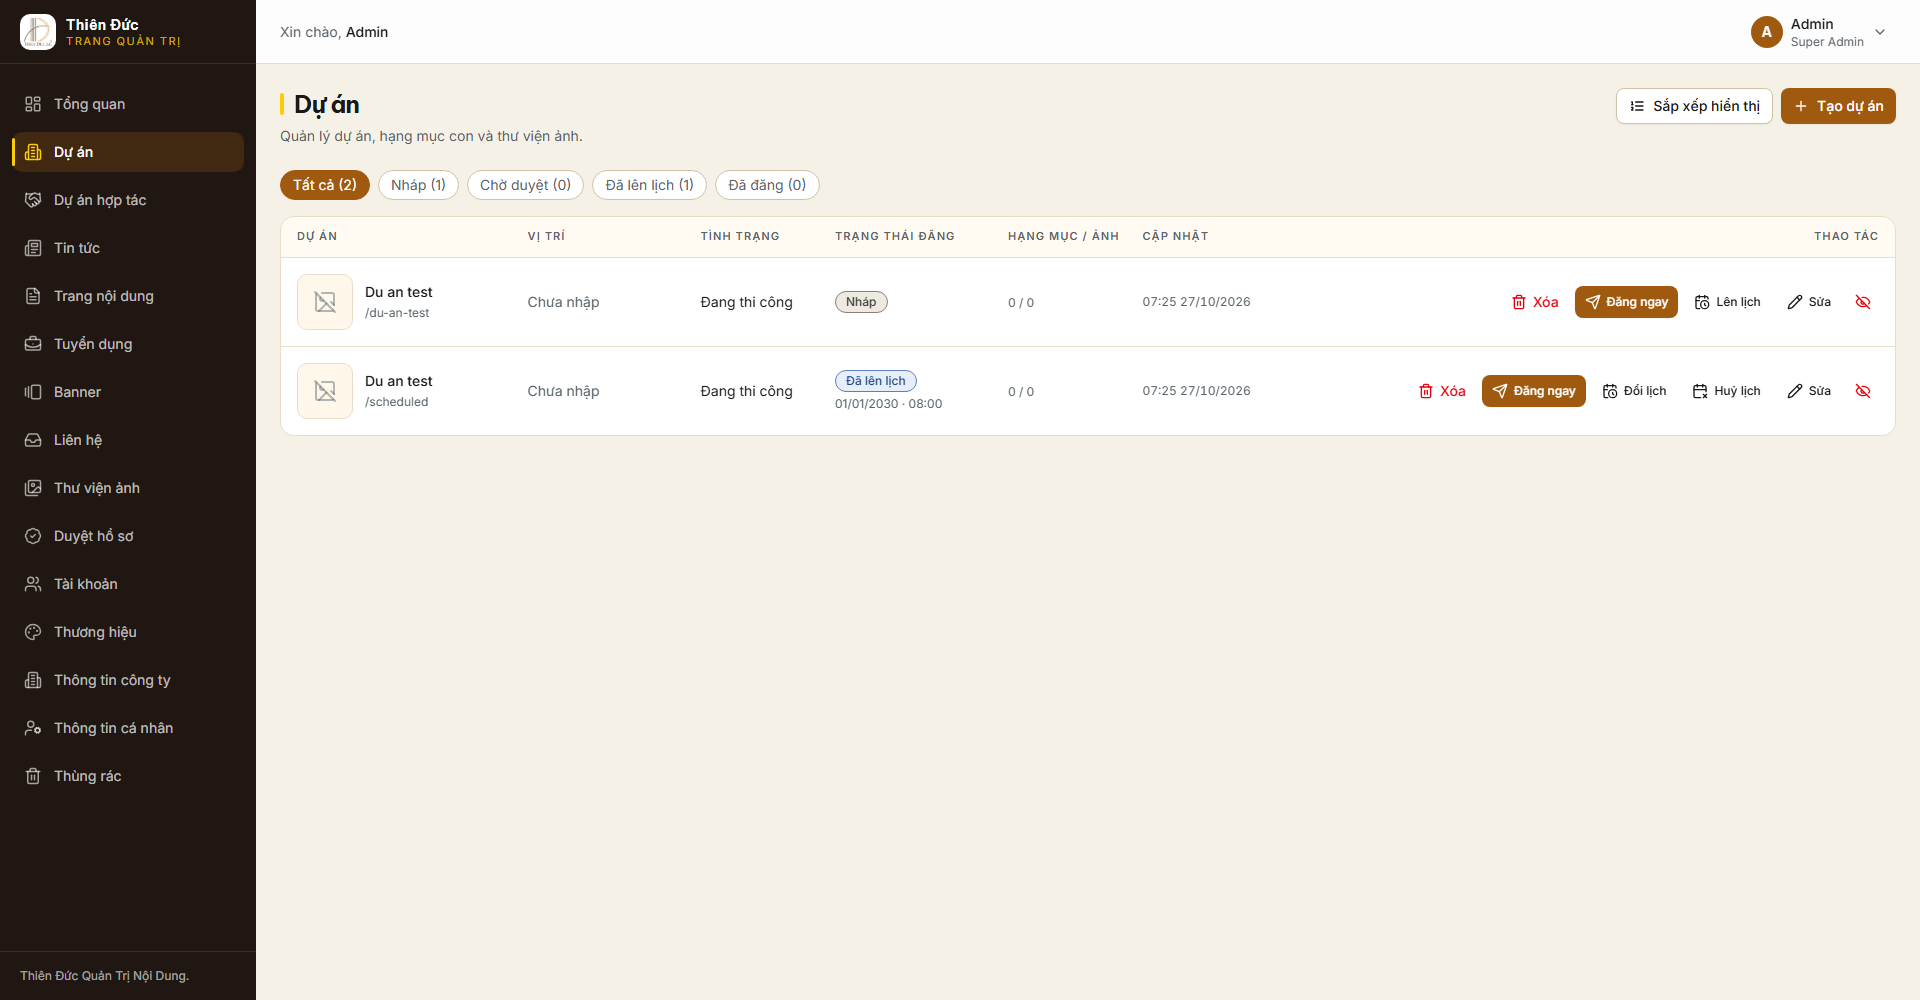
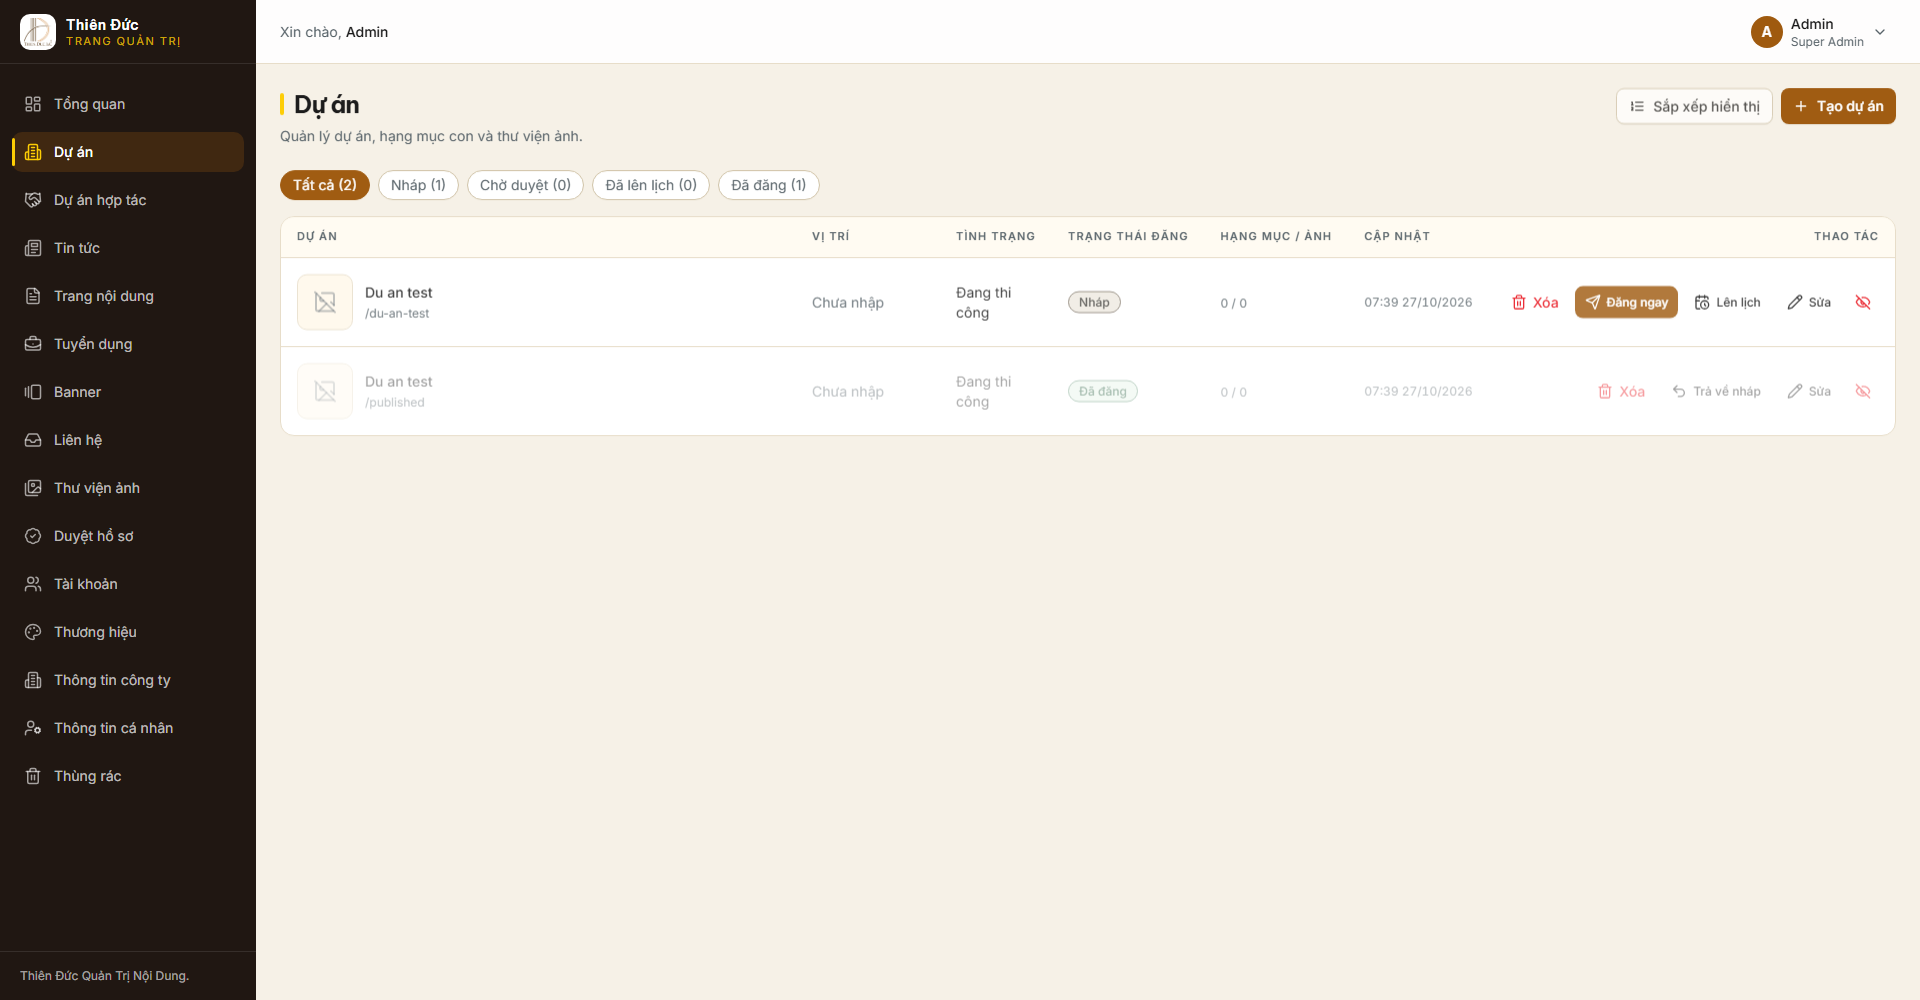
merge origin/main

diff --git a/src/components/ui/DataTable.tsx b/src/components/ui/DataTable.tsx
@@ -29,6 +29,7 @@ export function DataTable<T extends { id: string }>({
   emptyText = "Chưa có dữ liệu.",
   onRowClick,
   minWidth,
+  layout = "fixed",
 }: {
   columns: Column<T>[];
   rows: T[];
@@ -38,10 +39,15 @@ export function DataTable<T extends { id: string }>({
   onRowClick?: (row: T) => void;
   /** Bảng nhiều thao tác được cuộn ngang trong khung, giữ nút trên một hàng. */
   minWidth?: number;
+  /** Tự cân đối cột theo nội dung, dùng cho bảng có nhóm nút không xuống hàng. */
+  layout?: "fixed" | "auto";
 }) {
   return (
     <div className="overflow-hidden rounded-xl border border-line bg-white">
-      <Table style={minWidth ? { minWidth } : undefined}>
+      <Table
+        className={layout === "auto" ? "table-auto" : undefined}
+        style={minWidth ? { minWidth } : undefined}
+      >
         <TableHeader>
           <TableRow className="border-line bg-cream/60 hover:bg-cream/60">
             {columns.map((col) => (

diff --git a/src/pages/ProjectsPage.tsx b/src/pages/ProjectsPage.tsx
@@ -170,8 +170,7 @@ export function ProjectsPage() {
     {
       key: "title",
       header: "Dự án",
-      headerClassName: "w-48",
-      cellClassName: "w-48",
+      cellClassName: "min-w-48",
       render: (p) => (
         <ContentListCell
           title={p.title.vi}
@@ -262,7 +261,7 @@ export function ProjectsPage() {
     {
       key: "actions",
       header: "Thao tác",
-      headerClassName: "w-[512px] text-right",
+      headerClassName: "w-px text-right",
       cellClassName: "whitespace-nowrap",
       render: (p) => {
         const busy = busySlug === p.slug;
@@ -429,8 +428,7 @@ export function ProjectsPage() {
         })}
       </div>
 
-      <DataTable
-        minWidth={1500}
+      <DataTable layout="auto"
         columns={columns}
         rows={rows}
         loading={isLoading}

diff --git a/src/pages/RecruitmentPositionsPage.tsx b/src/pages/RecruitmentPositionsPage.tsx
@@ -145,7 +145,7 @@ export function RecruitmentPositionsPage() {
     {
       key: "actions",
       header: "Thao tác",
-      headerClassName: "w-[384px] text-right",
+      headerClassName: "w-px text-right",
       cellClassName: "whitespace-nowrap",
       render: (position) => {
         const busy = busyId === position.id;
@@ -246,8 +246,7 @@ export function RecruitmentPositionsPage() {
         </Select>
       </div>
 
-      <DataTable
-        minWidth={1000}
+      <DataTable layout="auto"
         columns={columns}
         rows={visiblePositions}
         loading={isLoading}

diff --git a/src/pages/CooperationPage.tsx b/src/pages/CooperationPage.tsx
@@ -288,7 +288,7 @@ export function CooperationPage() {
     {
       key: "actions",
       header: "",
-      headerClassName: "w-[512px] text-right",
+      headerClassName: "w-px text-right",
       cellClassName: "whitespace-nowrap",
       render: (project) => (
         <div
@@ -442,8 +442,7 @@ export function CooperationPage() {
           </p>
         </div>
       ) : (
-        <DataTable
-          minWidth={1160}
+        <DataTable layout="auto"
           columns={columns}
           rows={projects}
           loading={isLoading}

diff --git a/src/pages/NewsPage.tsx b/src/pages/NewsPage.tsx
@@ -223,7 +223,7 @@ export function NewsPage() {
     {
       key: "actions",
       header: "Thao tác",
-      headerClassName: "w-[512px] text-right",
+      headerClassName: "w-px text-right",
       cellClassName: "whitespace-nowrap",
       render: (post) => {
         const busy = busySlug === post.slug;
@@ -434,8 +434,7 @@ export function NewsPage() {
         </div>
       )}
 
-      <DataTable
-        minWidth={1200}
+      <DataTable layout="auto"
         columns={columns}
         rows={rows}
         loading={isLoading}

diff --git a/src/pages/UsersPage.tsx b/src/pages/UsersPage.tsx
@@ -124,7 +124,7 @@ export function UsersPage() {
     {
       key: "actions",
       header: "Thao tác",
-      headerClassName: "w-[384px] text-right",
+      headerClassName: "w-px text-right",
       cellClassName: "whitespace-nowrap",
       render: (u) => {
         if (!canManage)
@@ -223,8 +223,7 @@ export function UsersPage() {
           ) : null
         }
       />
-      <DataTable
-        minWidth={1000}
+      <DataTable layout="auto"
         columns={columns}
         rows={users}
         loading={isLoading}

diff --git a/src/pages/PagesPage.tsx b/src/pages/PagesPage.tsx
@@ -174,7 +174,7 @@ export function PagesPage() {
     {
       key: "actions",
       header: "",
-      headerClassName: "w-[512px] text-right",
+      headerClassName: "w-px text-right",
       cellClassName: "whitespace-nowrap",
       render: (page) => (
         <div
@@ -297,8 +297,7 @@ export function PagesPage() {
           />
         }
       />
-      <DataTable
-        minWidth={1160}
+      <DataTable layout="auto"
         columns={columns}
         rows={pages}
         loading={isLoading}
